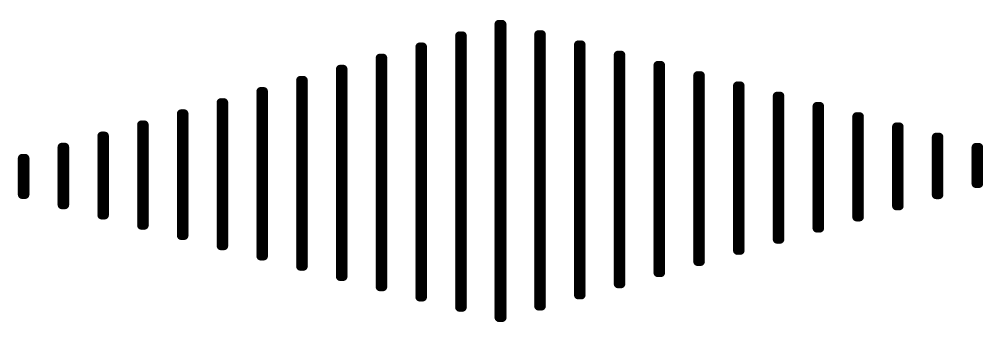
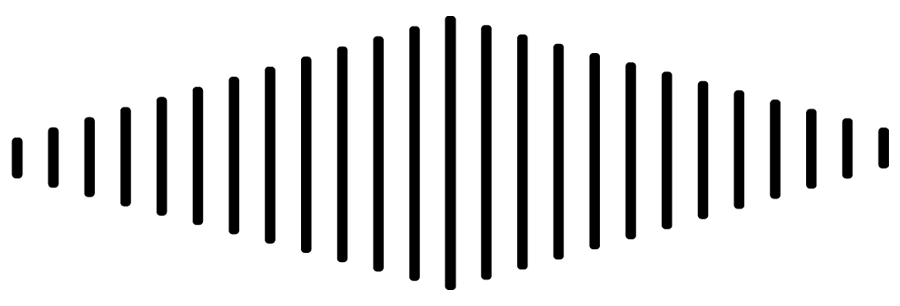
Make Splash Screen look better, fix placeholder text for text inputs.

diff --git a/client/src/screens/ProfileScreen.js b/client/src/screens/ProfileScreen.js
@@ -1,5 +1,5 @@
 import React, { useState } from 'react';
-import { Form, Input, TextArea } from 'semantic-ui-react'
+import { Form, TextArea } from 'semantic-ui-react'
 import "../styles/css/index.css"
 
 var previousClickedText = undefined;
@@ -10,7 +10,7 @@ const ProfileScreen = (props) => {
   const setSelectedTab = (clickedText, tab) => {
     // Highlight selected tab's text and deselect the others.
     clickedText.style.fontWeight = "bold";
-    if (previousClickedText != undefined) { previousClickedText.style.fontWeight = "normal"; }
+    if (previousClickedText !== undefined) { previousClickedText.style.fontWeight = "normal"; }
     previousClickedText = clickedText;
     // Set state of the currently selected tab.
     let currentTabCopy = [...currentTab];
@@ -19,7 +19,7 @@ const ProfileScreen = (props) => {
   }
 
   let tabComponent;
-  if (currentTab == "profile") {
+  if (currentTab === "profile") {
     tabComponent = <div className="profileScreenMainContainer">
                     <p className="profileScreenSubText">Bio</p>
                     <Form><TextArea className="profileTextArea" rows={6} style={{backgroundColor: "var(--secondary)"}} placeholder="Tell us about yourself" /></Form>
@@ -32,26 +32,26 @@ const ProfileScreen = (props) => {
                     <div className="profileScreenSubText"><button className="ui teal button massive">Submit</button></div>
                   </div>;
   }
-  else if (currentTab == "friends") {
+  else if (currentTab === "friends") {
     tabComponent = undefined;
   }
   else {
     tabComponent = <div className="profileScreenMainContainer">
                     <p className="profileScreenSubText">Username</p>
-                    <div className="profileInputContainer">
-                      <Input className="profileInput" style={{backgroundColor: "var(--secondary)"}}/><p className="profileAccountSubText">change</p>
+                    <div className="ui input profileInputContainer">
+                      <input className="profileInput" style={{backgroundColor: "var(--secondary)"}}/><p className="profileAccountSubText">change</p>
                     </div>
                     <p className="profileScreenSubText">Email</p>
-                    <div className="profileInputContainer">
-                      <Input className="profileInput" style={{backgroundColor: "var(--secondary)"}}/><p className="profileAccountSubText">change</p>
+                    <div className="ui input profileInputContainer">
+                      <input className="profileInput" style={{backgroundColor: "var(--secondary)"}}/><p className="profileAccountSubText">change</p>
                     </div>
                     <p className="profileScreenSubText">New Password</p>
-                    <div className="profileInputContainer">
-                      <Input className="profileInput" style={{backgroundColor: "var(--secondary)"}}/><p className="profileAccountSubText">change</p>
+                    <div className="ui input profileInputContainer">
+                      <input className="profileInput" style={{backgroundColor: "var(--secondary)"}}/><p className="profileAccountSubText">change</p>
                     </div>
                     <p className="profileScreenSubText">Confirm New Password</p>
-                    <div className="profileInputContainer">
-                      <Input className="profileInput" style={{backgroundColor: "var(--secondary)"}}/><p className="profileAccountSubText">change</p>
+                    <div className="ui input profileInputContainer">
+                      <input className="profileInput" style={{backgroundColor: "var(--secondary)"}}/><p className="profileAccountSubText">change</p>
                     </div>
                   </div>
   }

diff --git a/client/src/screens/SplashScreen.js b/client/src/screens/SplashScreen.js
@@ -33,17 +33,22 @@ const SplashScreen = (props) => {
                     <img src={wavebackTextFG} className="appLogoFG" alt="" style={{filter: "hue-rotate(" + "var(--hue)" + ")"}}/>     
                 </p>
 
-                <div className="splashLoginContainer" style={{backgroundColor: "var(--primary)"}}>
-                    <div className="splashText" style={{color: "var(--accent)"}}>Sign In</div>
-                    <div className="ui input splashInputContainer">
-                        <input size="25" className="splashInput" placeholder="Username" style={{backgroundColor: "var(--secondary)"}}/>
+                <div className="splashLoginContainer" >
+                    <p className="splashTextSubtitle" style={{color: "var(--accent)"}}>
+                        waveback is a simple, yet powerful, playlist creation tool.<br></br>relive the sounds of the past like never before.
+                    </p>
+                    <div className="splashLoginBox" style={{backgroundColor: "var(--primary)"}}>
+                        <div className="splashText" style={{color: "var(--accent)"}}>Sign In</div>
+                        <div className="ui input splashInputContainer">
+                            <input size="25" className="splashInput" placeholder="Username" style={{backgroundColor: "var(--secondary)"}}/>
+                        </div>
+                        <div className="ui input splashInputContainer">
+                            <input size="25" className="splashInput" placeholder="Password" style={{backgroundColor: "var(--secondary)"}}/>
+                        </div>
+                        <div className="splashTextSmall" onClick={handleForgotPassword}>Forgot Password?</div>
+                        <div><button className="ui black huge button" onClick={handleLogin}>Log In</button></div>
+                        <div className="splashTextSmall" onClick={handleRegister}>Create Account</div>
                     </div>
-                    <div className="ui input splashInputContainer">
-                        <input size="25" className="splashInput" placeholder="Password" style={{backgroundColor: "var(--secondary)"}}/>
-                    </div>
-                    <div className="splashTextSmall" onClick={handleForgotPassword}>Forgot Password?</div>
-                    <div><button className="ui grey huge button" onClick={handleLogin}>Log In</button></div>
-                    <div className="splashTextSmall" onClick={handleRegister}>Create Account</div>
                 </div>
                 
                 <div className="splashTestSelect">

diff --git a/client/src/styles/css/index.css b/client/src/styles/css/index.css
@@ -33,6 +33,11 @@ code {
     monospace;
 }
 
+::placeholder { 
+  color: #555555 !important;
+  opacity: 1;
+}
+
 /* SPLASH SCREEN */
 .App {
   text-align: center;
@@ -48,21 +53,14 @@ code {
 .appLogoBG {
   position: relative;
   pointer-events: none;
-  animation: appLogoWaveIntro 2.5s linear;
-  animation-iteration-count: 1;
+  animation: appLogoWaveIntro 1.5s linear;
 }
 
 .appLogoFG {
   position: absolute;
+  pointer-events: none;
   margin-top: -0.5%;
-  transform: scale(0.98);
-  filter: hue-rotate(180deg);
-}
-
-@media (prefers-reduced-motion: no-preference) {
-  .App-logo-spin {
-    animation: App-logo-spin infinite 1s linear;
-  }
+  transform: scale(0.87);
 }
 
 .App-header {
@@ -79,9 +77,22 @@ code {
 }
 
 .splashLoginContainer {
-  padding: 1%;
-  margin-top: 2%;
-  border-radius: 4%;
+  display: flex;
+  flex-direction: row;
+  justify-content: center;
+  align-items: center;
+}
+
+.splashTextSubtitle {
+  width: 33%;
+  text-align: right;
+  margin-right: 3%;
+  font-style: italic;
+}
+
+.splashLoginBox {
+  padding: 2%;
+  border-radius: 2%;
   display: flex;
   flex-direction: column;
   justify-content: center;
@@ -102,7 +113,6 @@ code {
   text-align: center;
   margin: 5%;
   text-decoration: none;
-  transition: 0.1s ease-in-out;
 }
 
 .splashTextSmall {
@@ -205,12 +215,16 @@ code {
 }
 
 /* GENERATE SCREEN */
+.generateScreen {
+  height: 100%;
+}
 .generateScreenTitleText {
-  margin-top: 60px;
-  margin-bottom: 40px;
+  margin-top: 3.5%;
+  margin-bottom: 2.5%;
   font-size: 72px;
   font-weight: bolder;
-  text-align: center;;
+  text-align: center;
+  font-style: italic;
 }
 
 .generateScreenModules {
@@ -483,14 +497,11 @@ code {
   0% {
     transform: scaleY(0.1);
   }
-  20% {
-    transform: scaleY(1.5);
+  30% {
+    transform: scaleY(1.3);
   }
-  40% {
-    transform: scaleY(1.25);
-  }
-  70% {
-    transform: scaleY(1.05);
+  60% {
+    transform: scaleY(1.2);
   }
   100% {
     transform: scaleY(1.0);

diff --git a/client/src/screens/GenerateScreen.js b/client/src/screens/GenerateScreen.js
@@ -72,7 +72,7 @@ const GenerateScreen = (props) => {
 
       <div className="generateScreenModules" style={{backgroundColor: "var(--background)"}}>
         <p className="generateScreenText">Locations
-          <button className="ui teal icon button generateSquareButton" onClick={addLocation}><i className="plus circle icon"></i></button>
+          <button className="ui black icon button generateSquareButton" onClick={addLocation}><i className="plus circle icon"></i></button>
           <button className="ui grey icon button generateSquareButton" onClick={subtractLocation}><i className="minus circle icon"></i></button>
         </p>
         <div align="center" className="generateScreenBox" id="gsbLeft" style={{backgroundColor: "var(--background)"}}>
@@ -102,7 +102,7 @@ const GenerateScreen = (props) => {
       <div className="generateScreenModules" style={{backgroundColor: "var(--background)"}}>
         <div>
           <p className="generateScreenText">Genres
-          <button className="ui icon teal button generateSquareButton" onClick={addGenre}><i className="plus circle icon"></i></button>
+          <button className="ui icon black button generateSquareButton" onClick={addGenre}><i className="plus circle icon"></i></button>
             <button className="ui icon grey button generateSquareButton" onClick={subtractGenre}><i className="minus circle icon"></i></button>
           </p>
 
@@ -140,7 +140,7 @@ const GenerateScreen = (props) => {
               <i className="angle right icon"/>
             </button>
           </div>
-          <div className="generateButtonBox"><button className="ui teal button massive generateButton">GENERATE!</button></div>
+          <div className="generateButtonBox"><button className="ui black button massive generateButton">GENERATE!</button></div>
         </div>
 
     </div>
